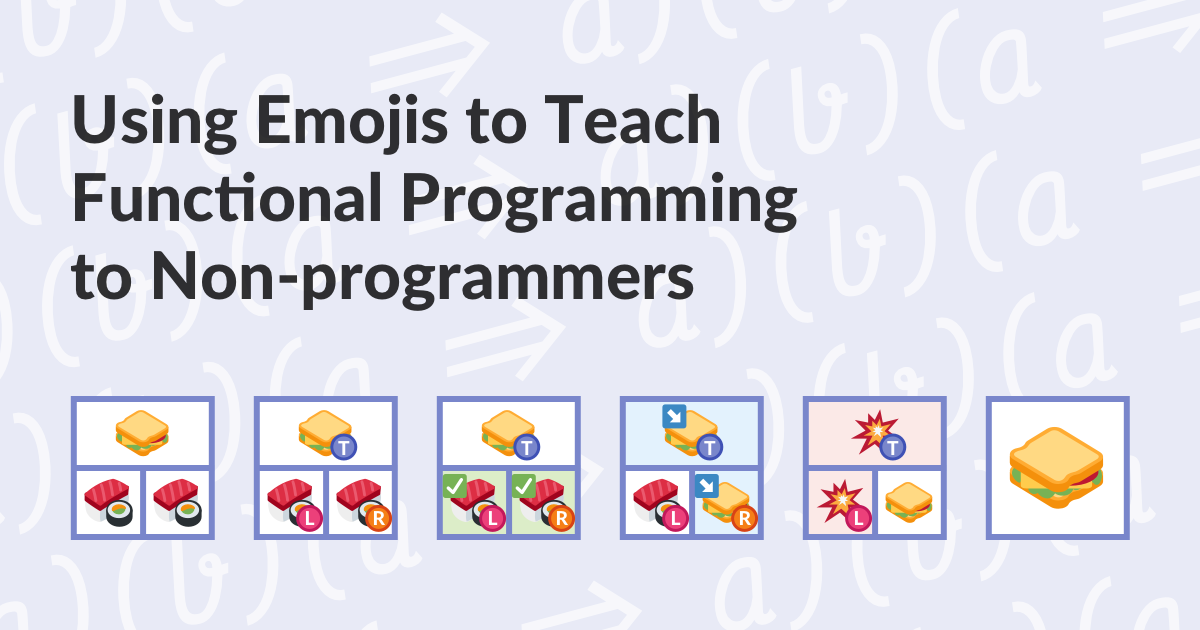
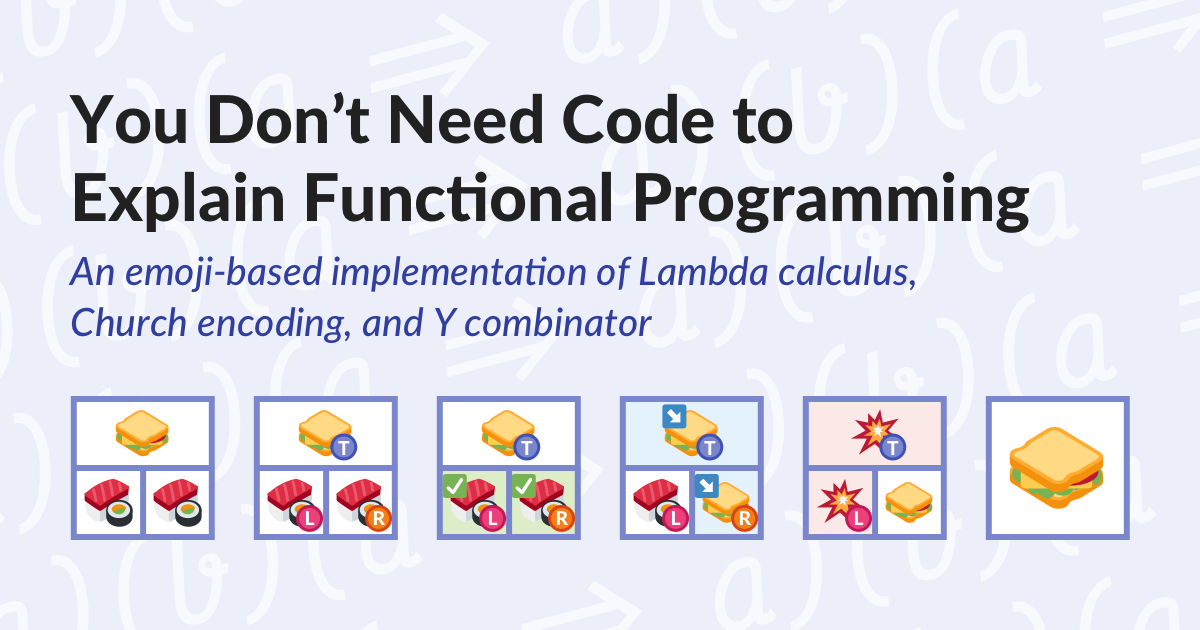
Clean up container and update og image

Changed region(s): [[0.0617, 0.3921, 0.7708, 0.5429], [0.0617, 0.2714, 0.8633, 0.3921], [0.0617, 0.1508, 0.6783, 0.2413]]

diff --git a/pages/emojis-functional-programming.tsx b/pages/emojis-functional-programming.tsx
@@ -461,21 +461,15 @@ export default () => {
         <meta property="article:published_time" content={dateSchemaString} />
       </Head>
       <Container
-        size="smsm"
-        horizontalPadding={0.5}
-        cssOverrides={css`
-          padding-top: ${spaces(1.5)};
-        `}
-      >
-        <EpisodeHero mainTitle={title} threeLineTitle />
-      </Container>
-      <Container
+        Component="article"
         size="smsm"
         horizontalPadding={0.75}
         cssOverrides={css`
+          padding-top: ${spaces(1.5)};
           padding-bottom: ${spaces(6)};
         `}
       >
+        <EpisodeHero mainTitle={title} threeLineTitle />
         <h2
           css={css`
             text-align: center;
